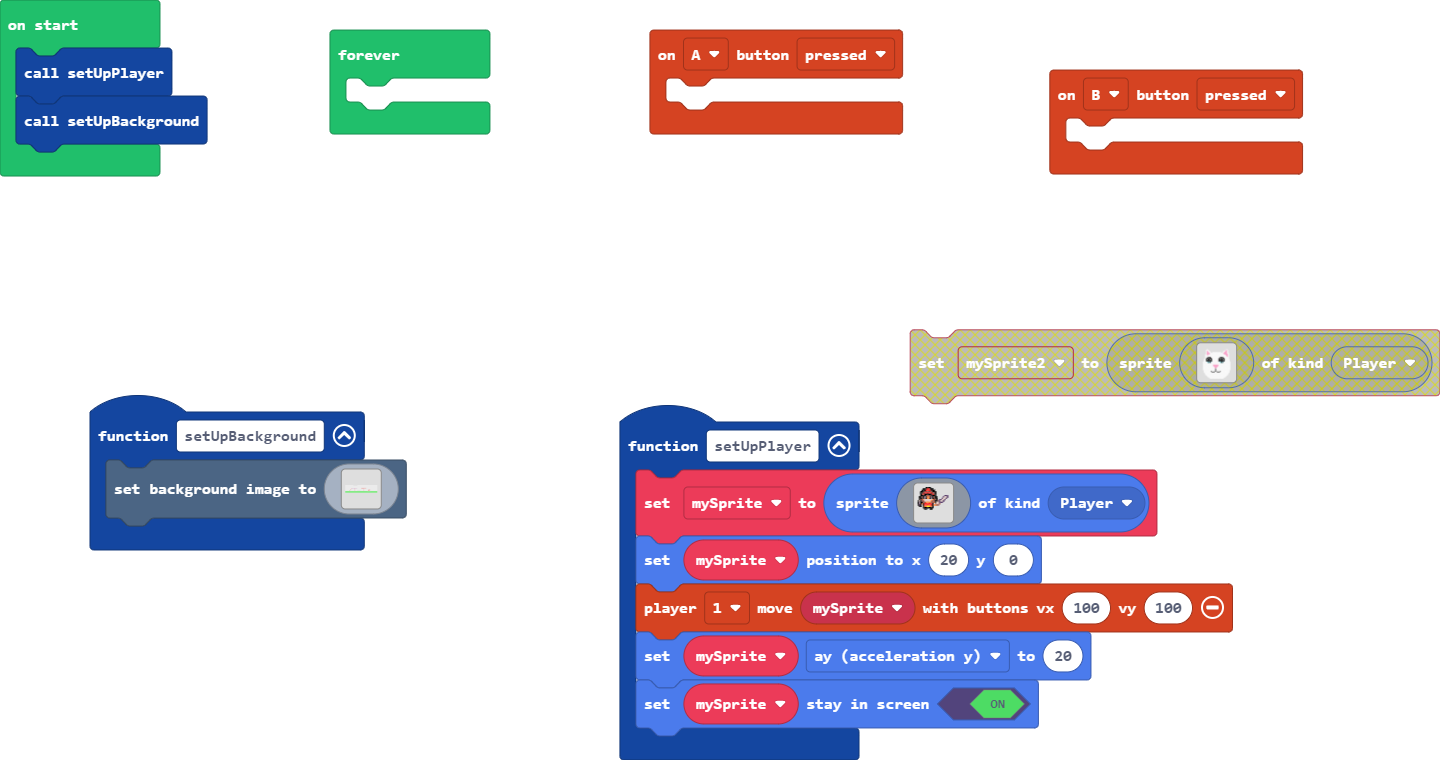
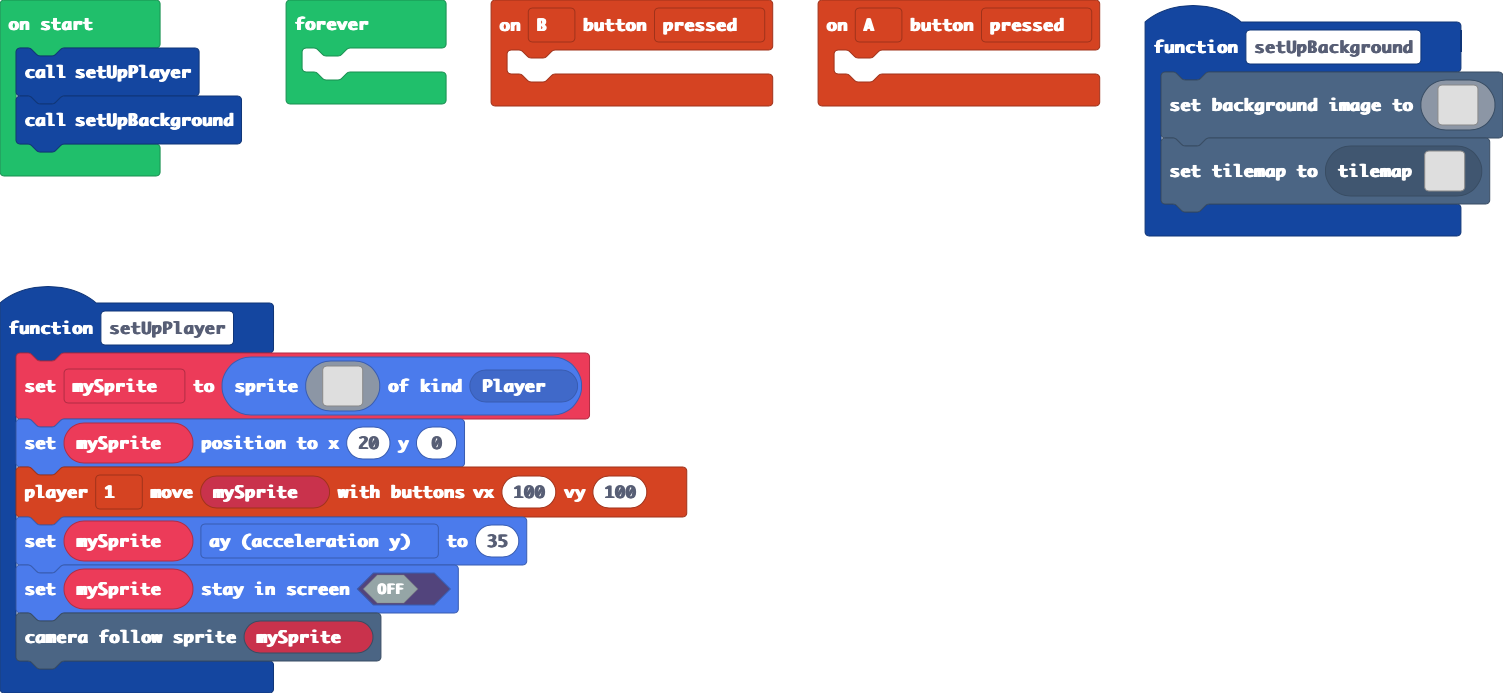
Gravity increased

diff --git a/main.ts b/main.ts
@@ -138,7 +138,7 @@ function setUpPlayer () {
         `, SpriteKind.Player)
     mySprite.setPosition(20, 0)
     controller.player1.moveSprite(mySprite, 100, 100)
-    mySprite.ay = 30
+    mySprite.ay = 35
     mySprite.setStayInScreen(false)
     scene.cameraFollowSprite(mySprite)
 }
